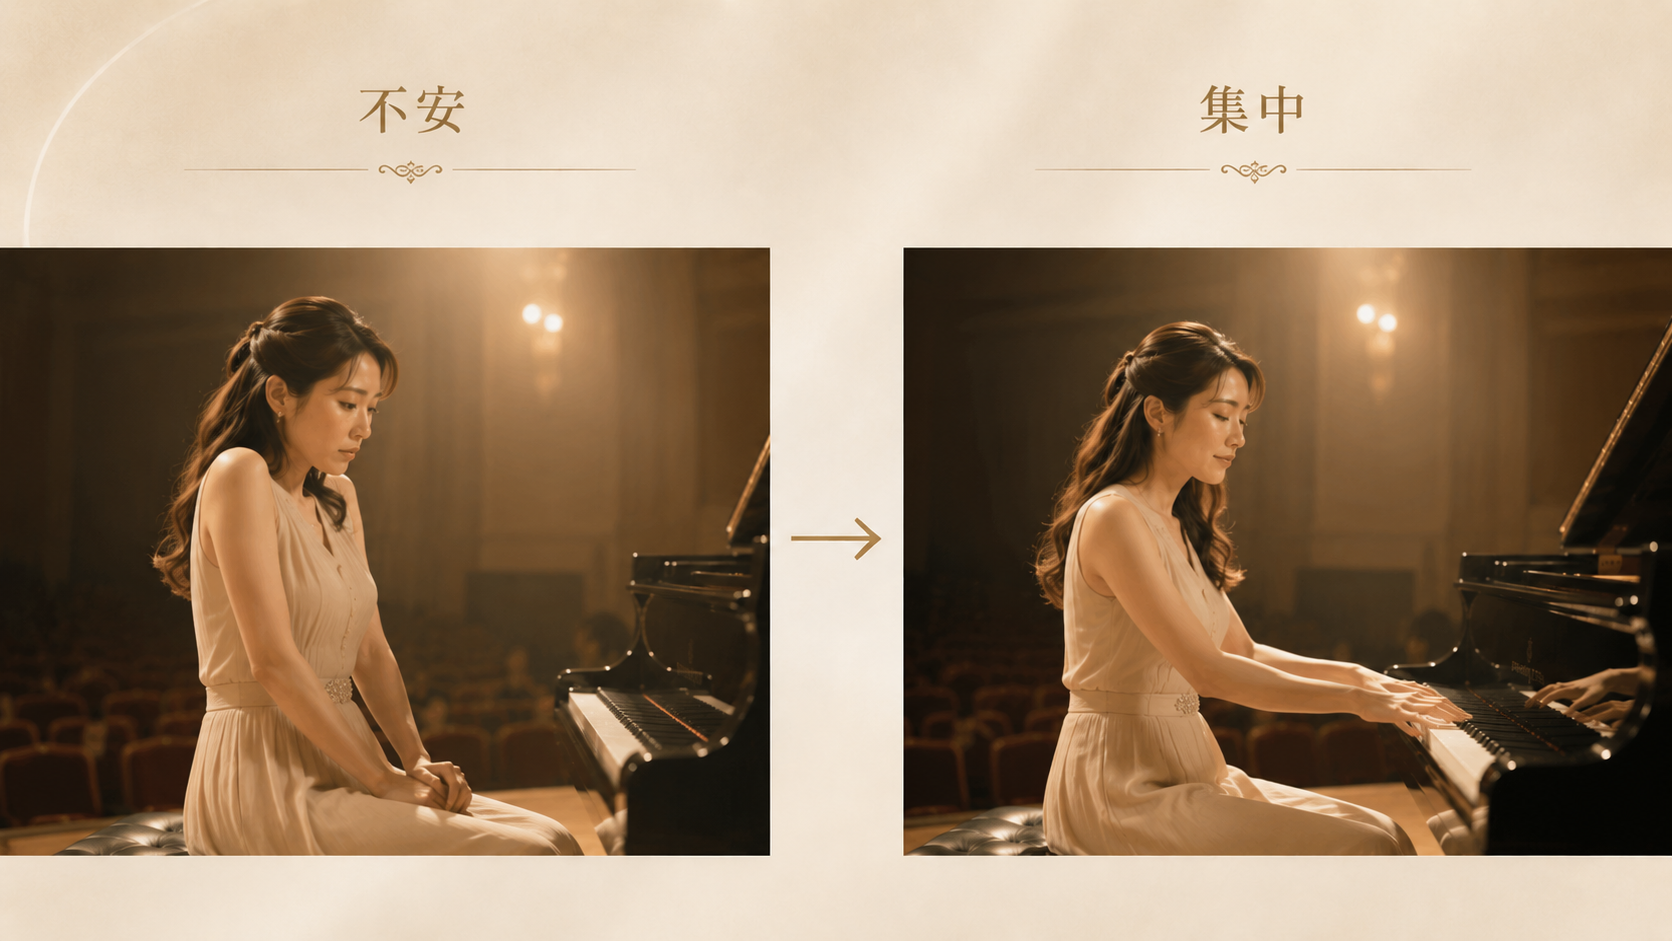
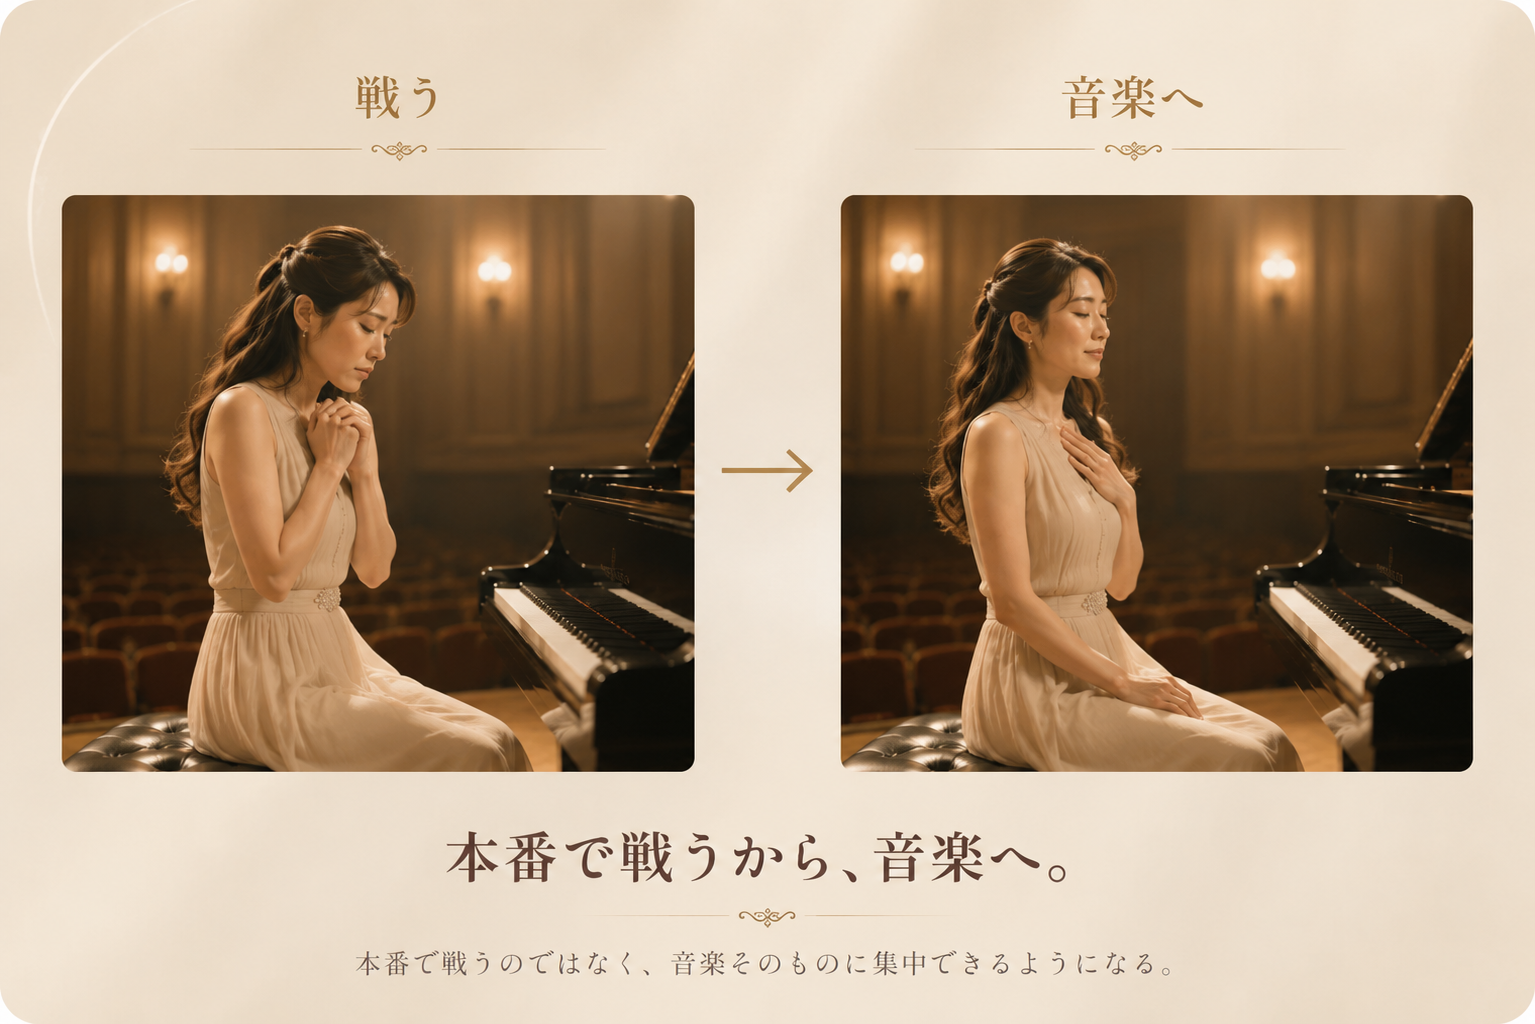
feat(lp-v2): refine §4c-② "本番の変化" copy and image
- Replace omame-before-after-stage.png with updated version
- Update heading: 「不安から、音楽へ。」→「本番で戦うから、音楽へ。」
- Expand body to 3 lines for clearer expression of the
  "not fighting, not suppressing — turning attention to music"
  philosophy. This better aligns with お豆奏法's core principle
  of subtraction (not addition).
- Update alt attribute to match the new framing.
- New stage image ratio changed (1672x941 -> 1535x1024); width/height
  are now per-card so only §4c-② updates without distorting ①/③.

diff --git a/src/app/[lang]/lp-v2/sections/Section04cChanges.tsx b/src/app/[lang]/lp-v2/sections/Section04cChanges.tsx
@@ -5,24 +5,35 @@ import { Eyebrow, Heading, Reveal, SectionShell } from "../ui";
 
 // §4c お豆奏法で起こる変化
 // 説明ではなく未来を見せる。文字は最小限、Before/After 画像が主役。
+// width/height は各画像の実寸（比率が異なるとカードごとに変わる）。
 const changes = [
   {
     src: "/images/omame-before-after-performance.png",
+    w: 1672,
+    h: 941,
     alt: "頑張る演奏から自然な演奏への変化",
     title: "頑張る演奏から、自然な演奏へ。",
-    body: "力を抜こうと頑張るのではなく、自然に音楽へ集中できる状態へ。",
+    body: ["力を抜こうと頑張るのではなく、自然に音楽へ集中できる状態へ。"],
   },
   {
     src: "/images/omame-before-after-stage.png",
-    alt: "不安から集中への変化",
-    title: "不安から、音楽へ。",
-    body: "本番で戦うのではなく、音楽そのものに集中できるようになる。",
+    w: 1535,
+    h: 1024,
+    alt: "本番で戦う状態から音楽に集中できる状態への変化",
+    title: "本番で戦うから、音楽へ。",
+    body: [
+      "緊張を消そうとするのではなく、",
+      "良く弾こうと戦うのでもなく、",
+      "音楽そのものに意識を向けられるようになる。",
+    ],
   },
   {
     src: "/images/omame-before-after-teaching.png",
+    w: 1672,
+    h: 941,
     alt: "生徒への伝わり方の変化",
     title: "伝わらないから、伝わるへ。",
-    body: "自分が変わるだけではなく、生徒への伝え方も変わっていく。",
+    body: ["自分が変わるだけではなく、生徒への伝え方も変わっていく。"],
   },
 ];
 
@@ -54,8 +65,8 @@ export function Section04cChanges() {
               <Image
                 src={c.src}
                 alt={c.alt}
-                width={1672}
-                height={941}
+                width={c.w}
+                height={c.h}
                 loading="lazy"
                 className="mx-auto h-auto w-full max-w-[900px] rounded-3xl shadow-md"
               />
@@ -63,7 +74,12 @@ export function Section04cChanges() {
                 {c.title}
               </p>
               <p className="mt-3 text-center text-sm leading-loose text-omame-text/70 md:text-base">
-                {c.body}
+                {c.body.map((line, j) => (
+                  <span key={j}>
+                    {line}
+                    {j < c.body.length - 1 && <br />}
+                  </span>
+                ))}
               </p>
             </div>
           </Reveal>